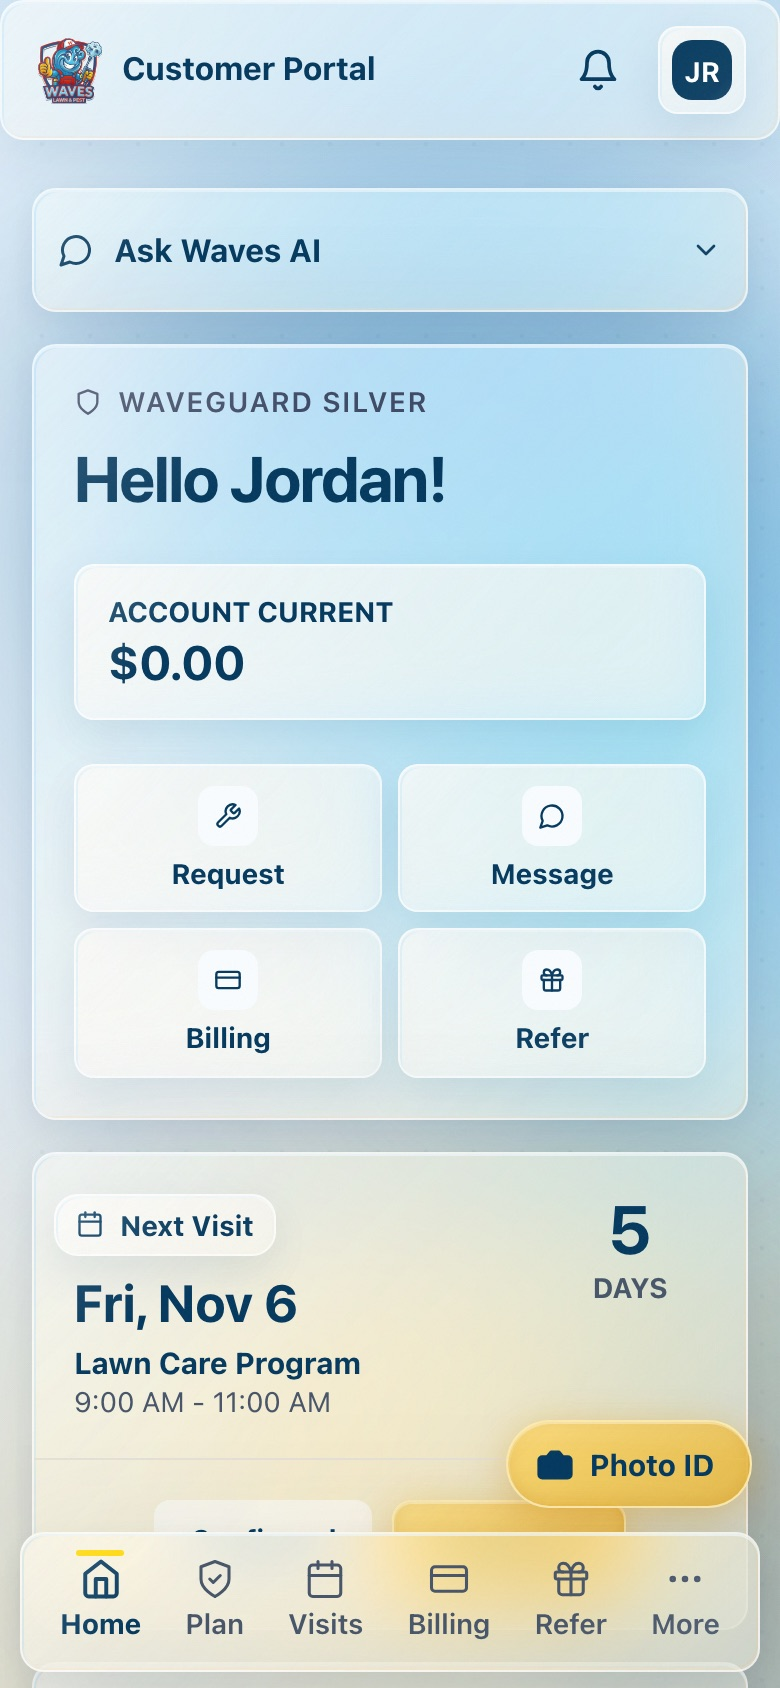
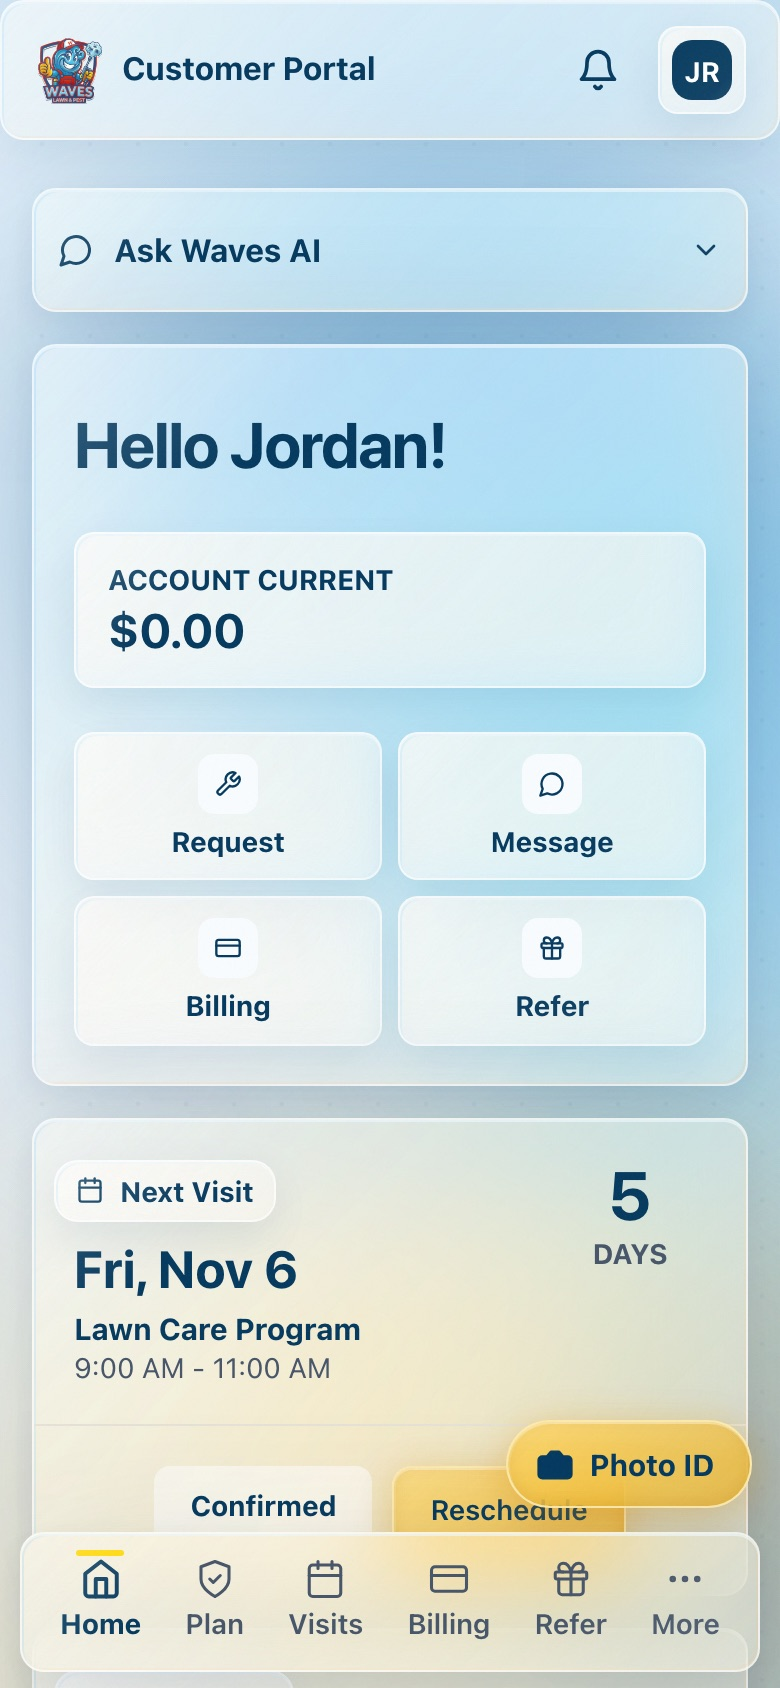
Lawn outline: sample pictures match the page; drop the round card rail that never drew
Fable's review of the built page (round 2, all points checked):
- Irrigation sample now shows one watering day (the local one-day order) at
  30 minutes per zone, "About 0.75" a week", instead of four days and about
  2 inches.
- Report sample: the "nothing on file" fixture (spray heads about 30 minutes,
  rotors about 80), the October summary reads "cooler months ahead", and the
  plan and next-visit cards (another tier, a 14-day revisit) are hidden; the
  thumbnail starts at "Today's result" instead of the contact block.
- Portal sample: no WaveGuard tier badge, as a lawn-only customer sees it.
- The round card's colored left rail never drew (Tailwind preflight is off,
  so a width-only border has no style); STEP_RAILS removed. The glass still
  sits on the <li> because glass forces its border and shadow, which would
  hide the current card's ring on the <details>.
- The two-picture grid keeps the single picture's top margin on a narrow card;
  the leap-year constant explains itself; "county's" uses the page's straight
  apostrophe.

Changed region(s): [[0.0308, 0.2156, 0.9538, 0.8318], [0.2462, 0.8626, 0.7692, 0.955]]

diff --git a/client/src/pages/ServiceOutlinePage.jsx b/client/src/pages/ServiceOutlinePage.jsx
@@ -360,13 +360,6 @@ const STEP_FILLS = {
   insects: "bg-zinc-100",
   inspection: "bg-zinc-100",
 };
-const STEP_RAILS = {
-  feeding: "border-l-waves-success",
-  barrier: "border-l-waves-blue-deeper",
-  micros: "border-l-waves-blue",
-  insects: "border-l-zinc-400",
-  inspection: "border-l-zinc-400",
-};
 const toneOf = (step) => STEP_TONES[step] || "text-waves-blue-deeper";
 
 // A link the outline points to (a Waves blog post or a UF/IFAS page), drawn as a small card. It leaves the portal, so
@@ -506,14 +499,13 @@ function YearBarVisual({ blocks = [], anchorPrefix = "round", months = [], ancho
 }
 
 // One round card: the header line carries the dates, the body the whole-lawn steps, spot work, why now, one thing to
-// do at home and links. The round that holds today starts open. The glass border sits on the <li>, because glass forces a
-// full border on whatever it marks and that would hide the <details> color rail.
+// do at home and links. The round that holds today starts open. The glass sits on the <li>, because glass forces its own
+// border and shadow on whatever it marks, and that would hide the current card's ring on the <details>.
 function RoundCard({ round, labels, current }) {
   const main = round.main || [];
-  const rail = STEP_RAILS[main[0]] || "";
   return (
     <li id={`round-${round.n}`} aria-current={current ? "step" : undefined} data-glass="soft" className="scroll-mt-24 rounded-md">
-      <details open={current || undefined} className={`group rounded-md border-l-4 ${rail} ${current ? "ring-2 ring-inset ring-waves-blue" : ""}`}>
+      <details open={current || undefined} className={`group rounded-md ${current ? "ring-2 ring-inset ring-waves-blue" : ""}`}>
         <summary className="flex cursor-pointer list-none items-start gap-3 px-3 py-3 [&::-webkit-details-marker]:hidden">
           <span className="flex h-10 w-10 flex-shrink-0 items-center justify-center rounded-md bg-waves-blue-deeper text-lg font-bold text-white" aria-hidden="true">
             {round.n}
@@ -597,7 +589,7 @@ function FactPicture({ picture, className = "" }) {
 function FactMedia({ item }) {
   if (item.pictures) {
     return (
-      <div className="mt-3 grid grid-cols-2 gap-3 sm:mt-0">
+      <div className={`grid grid-cols-2 gap-3 ${item.wide ? "mt-3 sm:mt-0" : "mt-3"}`}>
         {item.pictures.map((picture) => <FactPicture key={picture.image} picture={picture} />)}
       </div>
     );

diff --git a/server/services/lawn-service-outline.js b/server/services/lawn-service-outline.js
@@ -561,7 +561,7 @@ function buildTreatmentCategories({ turfType, visit, seasonBand }) {
 // we treat are st augustine"). No product name, rate, tier, visit count, date, or grass-specific line.
 const V13_COPY = Object.freeze({
   title: 'Your Waves Lawn Care Program Overview',
-  intro: (customerName) => `Based on your estimate for ${customerName}. The program follows the time of year. What each visit applies is set on site: your grass, your county’s fertilizer rules, sun and shade, new sod, the weather, and the spots we map for insects, disease or bermudagrass.`,
+  intro: (customerName) => `Based on your estimate for ${customerName}. The program follows the time of year. What each visit applies is set on site: your grass, your county's fertilizer rules, sun and shade, new sod, the weather, and the spots we map for insects, disease or bermudagrass.`,
   programLabel: 'Year-round, set to your lawn',
   programTitle: 'How Your Program Works',
   programBody: 'Most of the lawns we treat are St. Augustine, so the program is built around it. Each visit adjusts to the lawn in front of us, and every product is applied within its label.',

diff --git a/client/src/pages/ServiceOutlinePage.test.jsx b/client/src/pages/ServiceOutlinePage.test.jsx
@@ -540,7 +540,7 @@ describe('ServiceOutlinePage drawn sections', () => {
       expect(cards.map((li) => li.querySelector('details').open)).toEqual([false, true, false]);
       expect(cards.filter((li) => li.getAttribute('aria-current') === 'step').map((li) => li.id)).toEqual(['round-2']);
       expect(within(cards[1]).getByText('Now')).toBeInTheDocument();
-      // Glass puts a full border on what it marks, so it sits on the <li> and the <details> keeps its color rail.
+      // Glass forces its own border and shadow on what it marks, so it sits on the <li> and the <details> keeps the current ring.
       expect(cards.every((li) => li.getAttribute('data-glass') === 'soft')).toBe(true);
       expect(cards.every((li) => !li.querySelector('details').hasAttribute('data-glass'))).toBe(true);
       expect(cards[1].querySelector('details')).toHaveClass('ring-2', 'ring-inset', 'ring-waves-blue');

diff --git a/server/services/lawn-outline-visual.js b/server/services/lawn-outline-visual.js
@@ -388,6 +388,7 @@ const ymd = (y, m, d) => `${y}-${pad(m)}-${pad(d)}`;
 const dateParts = (dateStr) => dateStr.split('-').map(Number);
 const dayNumber = (dateStr) => { const [y, m, d] = dateParts(dateStr); return Date.UTC(y, m - 1, d) / 86400000; };
 const dayDiff = (from, to) => Math.round(dayNumber(to) - dayNumber(from));
+// A leap year for the month windows' last day, so February runs to 02-29 and a leap day still falls in February.
 const LEAP_YEAR = 2024;
 const daysInMonth = (year, month) => new Date(Date.UTC(year, month, 0)).getUTCDate();
 const monthDay = (dateStr) => { const [, m, d] = dateParts(dateStr); return `${MONTH_ABBR[m - 1]} ${d}`; };

diff --git a/server/tests/lawn-outline-visual.test.js b/server/tests/lawn-outline-visual.test.js
@@ -239,7 +239,7 @@ describe('a 9-visit rounds estimate', () => {
       expect(content.property.planLabel).toBe('9 visits a year, one per round');
       expect(content.intro).toContain('Your plan is nine visits a year, one in each round.');
       expect(content.intro).not.toContain('The program follows the time of year.');
-      expect(content.intro).toContain('What each visit applies is set on site: your grass, your county’s fertilizer rules');
+      expect(content.intro).toContain("What each visit applies is set on site: your grass, your county's fertilizer rules");
       expect(content.season.roundLabel).toBeUndefined();
     });
   });
